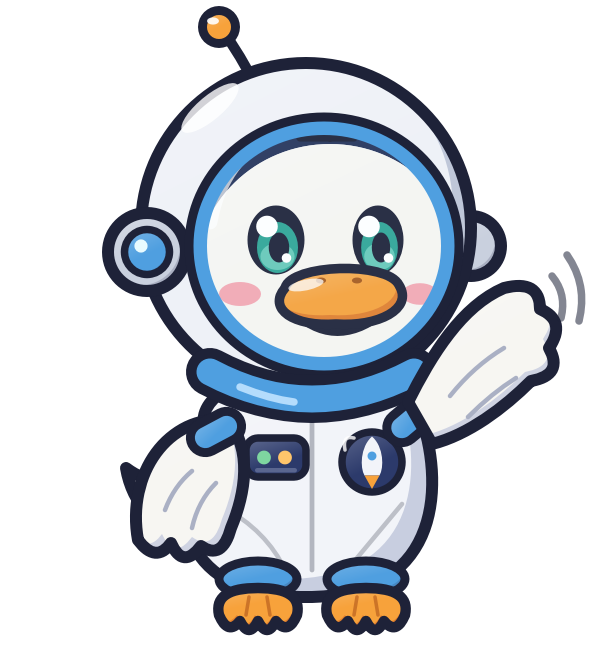
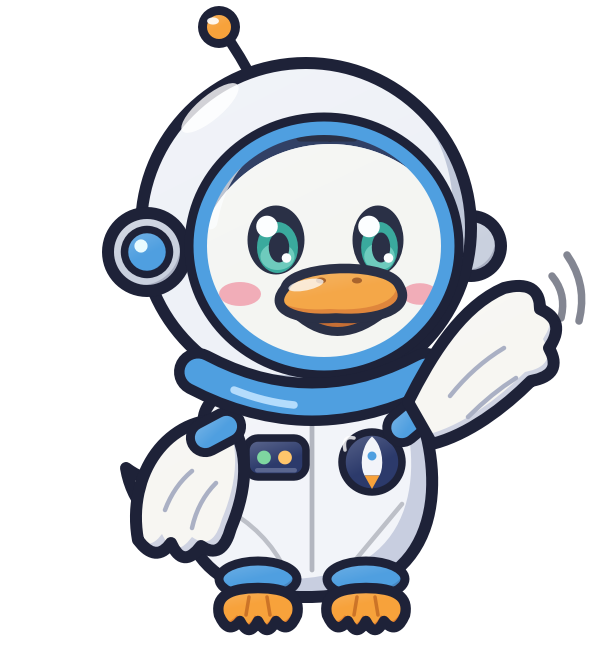
Duck poses: bubble-helmet patch pose and cheering visor pose

diff --git a/art/svg/duck.js b/art/svg/duck.js
@@ -1,7 +1,7 @@
-// Rocket Race - the new astronaut duck (sticker style, full duck body).
-//   node art/svg/duck.js   -> art/svg/duck_astro.svg (viewBox 200x220)
-// Round little duck in a white flight suit: wings for arms (one waving), webbed feet,
-// head turned a little to the right inside an open-visor helmet with ear pods + antenna.
+// Rocket Race - astronaut duck poses (sticker style, full duck body).
+//   node art/svg/duck.js   -> art/svg/duck_astro.svg, duck_bubble.svg, duck_cheer.svg (200x220)
+// Round little duck in a white flight suit: wings for arms, webbed feet. Options choose the
+// helmet (open visor or full glass bubble), wing poses, mouth, and facing direction.
 const fs = require("fs");
 const path = require("path");
 const K = require("./pilots.js");
@@ -11,82 +11,134 @@ const WHITE = "#f7f6f2", FEATHER_SH = "#cfd3e2";
 const SUIT = "#f2f4f9", BLUE = "#4f9fe0", NAVY = "#2c3a6b";
 const ORANGE = "#f7a23b", ORANGE_D = "#e07e2e", IRIS = "#2fa596";
 const o = (x = {}) => Object.assign({ stroke: 4, dx: -4, dy: -4 }, x);
+const FEATHER_LINE = "#aab0c4";
 
-function duck() {
+// ---- wings ------------------------------------------------------------------------------------
+const NEAR = { // viewer's left wing
+  down: () => part(P("M76 140 C56 138 42 158 46 180 Q52 188 57 181 Q61 190 67 182 Q74 187 77 176 C82 164 84 150 76 140 Z"), WHITE, o({ shadow: FEATHER_SH, dx: -3, dy: -3 })) +
+    line("M55 170 Q58 162 64 157 M64 176 Q66 167 72 161", 1.5, FEATHER_LINE),
+  chest: () => part(P("M74 140 C62 152 66 170 82 172 Q89 176 94 170 Q100 172 101 165 Q106 163 104 157 C96 150 88 150 80 140 Z"), WHITE, o({ shadow: FEATHER_SH, dx: -3, dy: -3 })) +
+    line("M78 160 Q86 162 94 160 M80 167 Q88 168 96 165", 1.5, FEATHER_LINE),
+  up: () => part(P("M72 136 C62 122 52 108 40 102 Q28 99 28 109 Q19 113 25 122 Q20 131 31 133 C40 141 52 147 64 150 Z"), WHITE, o({ shadow: FEATHER_SH, dx: -2, dy: -3 })) +
+    line("M58 132 Q50 122 40 116 M52 139 Q44 133 36 128", 1.5, FEATHER_LINE),
+};
+const NEAR_CUFF = { down: [72, 144, -28], chest: [74, 144, 30], up: [71, 141, 40] };
+const FAR = { // viewer's right wing (drawn in front)
+  wave: () => part(P("M136 134 C144 118 154 102 168 96 Q180 93 180 103 Q189 107 183 116 Q188 125 177 127 C168 136 156 145 144 148 Z"), WHITE, o({ shadow: FEATHER_SH, dx: -2, dy: -3 })) +
+    line("M150 132 Q158 122 168 116 M156 139 Q164 131 172 126", 1.5, FEATHER_LINE) +
+    line("M184 92 Q189 98 187 106 M189 85 Q196 95 193 107", 2.5, INK, ' opacity="0.55"'),
+  down: () => part(P("M132 140 C152 138 164 158 160 180 Q154 188 149 181 Q145 190 139 182 Q132 187 129 176 C124 164 124 150 132 140 Z"), WHITE, o({ shadow: FEATHER_SH, dx: -3, dy: -3 })) +
+    line("M151 170 Q148 162 142 157 M142 176 Q140 167 134 161", 1.5, FEATHER_LINE),
+};
+const FAR_CUFF = { wave: [137, 140, -40], down: [136, 144, 28] };
+
+function cuff([x, y, rot]) {
+  return part(R(-9, -5, 18, 10, 5, ` transform="translate(${x},${y}) rotate(${rot})"`), BLUE, o({ dx: 0, dy: -1, stroke: 3 }));
+}
+
+// ---- face -----------------------------------------------------------------------------------
+function face(mouth) {
+  let s = "";
+  for (const [x, w] of [[92, 9.5], [126, 8.5]]) {
+    s += flat(E(x, 80, w, 11.5), INK);
+    s += flat(E(x + 0.5, 82.5, w * 0.72, 8.5), IRIS);
+    s += flat(E(x + 0.5, 85.5, w * 0.6, 4.5), "#7fd8c8", ' opacity="0.7"');
+    s += flat(E(x + 1, 82.5, w * 0.36, 5), INK);
+    s += flat(C(x - 3, 75.5, 3.6), "#fff") + flat(C(x + 3.5, 86, 1.6), "#fff");
+  }
+  s += flat(E(80, 98, 7, 4), "#f49aa8", ' opacity="0.85"') + flat(E(140, 98, 6, 3.6), "#f49aa8", ' opacity="0.85"');
+  if (mouth === "open") { // cheering: lower bill dropped, mouth and tongue showing
+    s += part(P("M97 102 Q112 128 129 102 Z"), ORANGE_D, o({ dx: 0, dy: -1, stroke: 3, shadow: "#c46526" }));
+    s += flat(P("M101 104 Q112 121 125 104 Z"), "#8a2f3a") + flat(E(113, 113, 7, 4), "#f07a8a");
+  } else {
+    s += part(P("M98 104 Q112 117 128 104 Z"), ORANGE_D, o({ dx: 0, dy: -1, stroke: 3, shadow: "#c46526" }));
+  }
+  s += part(P("M95 96 C97 88 129 87 133 95 C138 103 126 107 112 106 C98 107 89 103 95 96 Z"), ORANGE, o({ dx: -2, dy: -3, stroke: 3.2, shadow: ORANGE_D }));
+  s += flat(E(107, 93.5, 1.7, 1) + E(119, 93.5, 1.7, 1), "#a55a1e") + shine(102, 95, 6, 1.8, 0.75, -12);
+  return s;
+}
+const TUFT = "M100 46 C98 38 104 34 108 38 C106 40 106 44 110 46 C112 40 118 40 118 46 Z";
+
+// ---- the duck -------------------------------------------------------------------------------
+function duck({ helmet = "visor", near = "down", far = "wave", mouth = "closed", mirror = false } = {}) {
   K.resetDefs();
   let s = "";
 
-  // tail feathers (behind), far ear pod + antenna (behind the helmet shell)
+  // tail feathers, far ear pod, antenna (behind the helmet)
   s += part(P("M68 178 C52 178 44 168 42 156 C50 162 56 160 60 156 C58 164 64 168 72 166 Z"), WHITE, o({ shadow: FEATHER_SH, dx: -2, dy: -2 }));
   s += part(C(157, 82, 10), "#c9d0de", o({ dx: -2, dy: -2 }));
-  s += line("M86 30 Q80 18 74 10", 3.5) + part(C(73, 9, 5.5), ORANGE, o({ dx: -1, dy: -1, stroke: 3 })) + shine(71, 7, 2, 1.2, 0.9, 0);
+  if (helmet === "visor")
+    s += line("M86 30 Q80 18 74 10", 3.5) + part(C(73, 9, 5.5), ORANGE, o({ dx: -1, dy: -1, stroke: 3 })) + shine(71, 7, 2, 1.2, 0.9, 0);
 
-  // body: round suit
+  // body + feet + suit details
   s += part(P("M68 142 C64 120 138 114 140 138 C148 160 148 198 104 199 C60 200 54 170 68 142 Z"), SUIT, o({ dx: -7, dy: -6, shadow: "#c8cee0" }));
   s += line("M104 138 L104 190", 1.6, INK, ' opacity="0.3"');
   s += line("M76 170 Q90 178 96 192 M134 168 Q124 180 114 192", 1.5, INK, ' opacity="0.25"');
-  // suit leg cuffs + webbed feet
-  for (const [x, flip] of [[86, 1], [122, 1]]) {
+  for (const x of [86, 122]) {
     s += part(E(x, 193, 13, 6), BLUE, o({ dx: -1, dy: -2, stroke: 3 }));
     s += part(P(`M${x - 13} 205 Q${x - 15} 196 ${x} 196 Q${x + 15} 196 ${x + 13} 205 Q${x + 10} 212 ${x + 6} 207 Q${x + 3} 213 ${x} 207 Q${x - 3} 213 ${x - 6} 207 Q${x - 10} 212 ${x - 13} 205 Z`),
       ORANGE, o({ dx: -1, dy: -2, stroke: 3.5, shadow: ORANGE_D }));
     s += line(`M${x - 3} 199 L${x - 4} 205 M${x + 3} 199 L${x + 4} 205`, 1.2, "#b9601f", ' opacity="0.7"');
   }
-  // chest: control panel + Rocket Race patch
-  s += part(R(82, 146, 20, 13, 4), NAVY, o({ dx: 0, dy: 0, stroke: 2.5 }));
-  s += flat(C(88, 152.5, 2.3), "#7ed6a0") + flat(C(95, 152.5, 2.3), "#ffc56b") + flat(R(85, 156, 14, 1.5, 0.75), "#5a6690");
+  if (near !== "chest") {
+    s += part(R(82, 146, 20, 13, 4), NAVY, o({ dx: 0, dy: 0, stroke: 2.5 }));
+    s += flat(C(88, 152.5, 2.3), "#7ed6a0") + flat(C(95, 152.5, 2.3), "#ffc56b") + flat(R(85, 156, 14, 1.5, 0.75), "#5a6690");
+  }
+  const px = near === "chest" ? 112 : 124; // patch sits where the chest wing can touch it
+  s += `<g transform="translate(${px - 124},0)">`;
   s += part(C(124, 154, 10), NAVY, o({ dx: -1, dy: -1, stroke: 2.5 }));
   s += flat(P("M124 145.5 C128 149 128 156 126.5 158.5 L121.5 158.5 C120 156 120 149 124 145.5 Z"), "#f2f4f9");
   s += flat(P("M121.5 158.5 L124 163 L126.5 158.5 Z"), ORANGE) + flat(C(124, 152, 1.5), BLUE);
   s += line("M115 150 Q114 145 118 146", 1.2, "#fff", ' opacity="0.8"');
+  s += "</g>";
 
-  // near wing (down, viewer's left) coming out of a sleeve cuff
-  s += part(P("M76 140 C56 138 42 158 46 180 Q52 188 57 181 Q61 190 67 182 Q74 187 77 176 C82 164 84 150 76 140 Z"), WHITE, o({ shadow: FEATHER_SH, dx: -3, dy: -3 }));
-  s += line("M55 170 Q58 162 64 157 M64 176 Q66 167 72 161", 1.5, "#aab0c4");
-  s += part(R(-9, -5, 18, 10, 5, ' transform="translate(72,144) rotate(-28)"'), BLUE, o({ dx: 0, dy: -1, stroke: 3 }));
+  // near wing + cuff
+  s += NEAR[near]() + cuff(NEAR_CUFF[near]);
 
-  // helmet: shell, near ear pod, visor opening, head inside, glass, rim
-  s += part(C(102, 76, 55), "#eef1f7", o({ dx: -6, dy: -6, shadow: "#bfc7d9" }));
-  s += part(C(49, 84, 13), "#c9d0de", o({ dx: -2, dy: -2 }));
-  s += part(C(49, 84, 7.5), BLUE, o({ dx: -1, dy: -1, stroke: 2.5 })) + flat(C(47, 82, 2.2), "#e8fbff");
-  const visor = E(108, 82, 42, 40);
-  K.addDef(`<clipPath id="visor">${visor}</clipPath>`);
-  s += flat(visor, "#25335a");
-  let head = "";
-  head += part(E(110, 92, 45, 44), WHITE, o({ shadow: FEATHER_SH, dx: -6, dy: -7, outline: false }));
-  // forehead feather curl
-  head += part(P("M100 46 C98 38 104 34 108 38 C106 40 106 44 110 46 C112 40 118 40 118 46 Z"), WHITE, o({ shadow: FEATHER_SH, dx: -1, dy: -1, stroke: 2.4 }));
-  // eyes (3/4 view: far eye a bit narrower)
-  for (const [x, w] of [[92, 9.5], [126, 8.5]]) {
-    head += flat(E(x, 80, w, 11.5), INK);
-    head += flat(E(x + 0.5, 82.5, w * 0.72, 8.5), IRIS);
-    head += flat(E(x + 0.5, 85.5, w * 0.6, 4.5), "#7fd8c8", ' opacity="0.7"');
-    head += flat(E(x + 1, 82.5, w * 0.36, 5), INK);
-    head += flat(C(x - 3, 75.5, 3.6), "#fff") + flat(C(x + 3.5, 86, 1.6), "#fff");
-    head += line(`M${x - w} ${70} Q${x} ${64} ${x + w} ${70}`, 1.4, INK, ' opacity="0.0"');
+  if (helmet === "visor") {
+    // open-visor shell: face framed by a blue rim
+    s += part(C(102, 76, 55), "#eef1f7", o({ dx: -6, dy: -6, shadow: "#bfc7d9" }));
+    s += part(C(49, 84, 13), "#c9d0de", o({ dx: -2, dy: -2 }));
+    s += part(C(49, 84, 7.5), BLUE, o({ dx: -1, dy: -1, stroke: 2.5 })) + flat(C(47, 82, 2.2), "#e8fbff");
+    const visor = E(108, 82, 42, 40);
+    K.addDef(`<clipPath id="visor">${visor}</clipPath>`);
+    s += flat(visor, "#25335a");
+    const head = part(E(110, 92, 45, 44), WHITE, o({ shadow: FEATHER_SH, dx: -6, dy: -7, outline: false })) +
+      part(P(TUFT), WHITE, o({ shadow: FEATHER_SH, dx: -1, dy: -1, stroke: 2.4 })) + face(mouth);
+    s += `<g clip-path="url(#visor)">${head}</g>`;
+    s += `<g clip-path="url(#visor)"><path d="M70 74 Q74 52 92 44" fill="none" stroke="#fff" stroke-width="5" stroke-linecap="round" opacity="0.7"/>${flat(visor, "#cfefff", ' opacity="0.07"')}</g>`;
+    s += `<g fill="none" stroke="${BLUE}" stroke-width="6">${visor}</g><g fill="none" stroke="${INK}" stroke-width="3">${E(108, 82, 45, 43)}</g>`;
+    s += shine(70, 36, 12, 4, 0.8, -40);
+  } else {
+    // full glass bubble: whole head visible inside, thick blue rim ring at the base
+    K.addDef(`<radialGradient id="bub" cx="0.35" cy="0.3" r="0.8"><stop offset="0" stop-color="#e8fbff" stop-opacity="0.38"/><stop offset="1" stop-color="#7fb4d9" stop-opacity="0.3"/></radialGradient>`);
+    s += `<circle cx="104" cy="74" r="58" fill="url(#bub)"/>`;
+    s += part(R(92, 112, 26, 18, 9), WHITE, o({ shadow: FEATHER_SH, dx: -2, dy: -2, stroke: 3 })); // neck
+    s += part(P("M104 30 C96 20 102 12 108 16 C106 20 108 24 112 26 C114 18 122 18 122 26 C120 30 116 32 112 32 Z"), WHITE, o({ shadow: FEATHER_SH, dx: -1, dy: -1, stroke: 2.6 }));
+    s += part(E(110, 76, 40, 42), WHITE, o({ shadow: FEATHER_SH, dx: -5, dy: -6, stroke: 3.5 }));
+    s += `<g transform="translate(1,-8)">${face(mouth)}</g>`;
+    s += part(C(46, 92, 10), "#c9d0de", o({ dx: -2, dy: -2 })) + part(C(46, 92, 5.5), BLUE, o({ dx: -1, dy: -1, stroke: 2.5 }));
+    s += `<circle cx="104" cy="74" r="56" fill="none" stroke="#e8fbff" stroke-width="2.5" opacity="0.55"/>`;
+    s += `<circle cx="104" cy="74" r="58" fill="none" stroke="${INK}" stroke-width="4"/>`;
+    s += line("M58 72 Q60 36 92 22", 6, "#fff", ' opacity="0.85"') + flat(C(101, 19, 3.2), "#fff");
+    s += line("M154 92 Q150 110 136 120", 3, "#fff", ' opacity="0.45"');
   }
-  head += flat(E(80, 98, 7, 4), "#f49aa8", ' opacity="0.85"') + flat(E(140, 98, 6, 3.6), "#f49aa8", ' opacity="0.85"');
-  // bill: lower then upper, nostrils, gloss
-  head += part(P("M98 104 Q112 117 128 104 Z"), ORANGE_D, o({ dx: 0, dy: -1, stroke: 3, shadow: "#c46526" }));
-  head += part(P("M95 96 C97 88 129 87 133 95 C138 103 126 109 112 108 C98 109 89 103 95 96 Z"), ORANGE, o({ dx: -2, dy: -3, stroke: 3.2, shadow: ORANGE_D }));
-  head += flat(E(107, 93.5, 1.7, 1) + E(119, 93.5, 1.7, 1), "#a55a1e") + shine(102, 95, 6, 1.8, 0.75, -12);
-  s += `<g clip-path="url(#visor)">${head}</g>`;
-  s += `<g clip-path="url(#visor)"><path d="M70 74 Q74 52 92 44" fill="none" stroke="#fff" stroke-width="5" stroke-linecap="round" opacity="0.7"/>${flat(visor, "#cfefff", ' opacity="0.07"')}</g>`;
-  s += `<g fill="none" stroke="${BLUE}" stroke-width="6">${visor}</g><g fill="none" stroke="${INK}" stroke-width="3">${E(108, 82, 45, 43)}</g>`;
-  s += shine(70, 36, 12, 4, 0.8, -40);
 
-  // collar ring joining helmet and suit
-  s += line("M70 124 Q104 142 138 124", 16, INK) + line("M70 124 Q104 142 138 124", 9, BLUE) +
-    line("M80 129 Q90 133 98 134", 2.5, "#bfe3ff", ' opacity="0.9"');
+  // collar band joining helmet and suit
+  s += line("M66 124 Q104 144 142 124", 16, INK) + line("M66 124 Q104 144 142 124", 9, BLUE) +
+    line("M78 130 Q88 134 98 135", 2.5, "#bfe3ff", ' opacity="0.9"');
 
-  // far wing raised, waving (in front), with motion marks
-  s += part(R(-9, -5, 18, 10, 5, ' transform="translate(137,140) rotate(-40)"'), BLUE, o({ dx: 0, dy: -1, stroke: 3 }));
-  s += part(P("M136 134 C144 118 154 102 168 96 Q180 93 180 103 Q189 107 183 116 Q188 125 177 127 C168 136 156 145 144 148 Z"), WHITE, o({ shadow: FEATHER_SH, dx: -2, dy: -3 }));
-  s += line("M150 132 Q158 122 168 116 M156 139 Q164 131 172 126", 1.5, "#aab0c4");
-  s += line("M184 92 Q189 98 187 106 M189 85 Q196 95 193 107", 2.5, INK, ' opacity="0.55"');
+  // far wing + cuff (in front)
+  s += cuff(FAR_CUFF[far]) + FAR[far]();
 
-  return `<svg xmlns="http://www.w3.org/2000/svg" viewBox="0 0 200 220" width="200" height="220"><defs>${K.takeDefs()}</defs>${s}</svg>`;
+  const body = mirror ? `<g transform="translate(206,0) scale(-1,1)">${s}</g>` : s;
+  return `<svg xmlns="http://www.w3.org/2000/svg" viewBox="0 0 200 220" width="200" height="220"><defs>${K.takeDefs()}</defs>${body}</svg>`;
 }
 
-fs.writeFileSync(path.join(__dirname, "duck_astro.svg"), duck());
-console.log("wrote duck_astro.svg");
+const POSES = {
+  duck_astro: {},
+  duck_bubble: { helmet: "bubble", near: "chest", far: "down", mirror: true },
+  duck_cheer: { helmet: "visor", near: "up", far: "wave", mouth: "open" },
+};
+for (const [name, opts] of Object.entries(POSES)) fs.writeFileSync(path.join(__dirname, name + ".svg"), duck(opts));
+console.log("wrote", Object.keys(POSES).join(", "));
